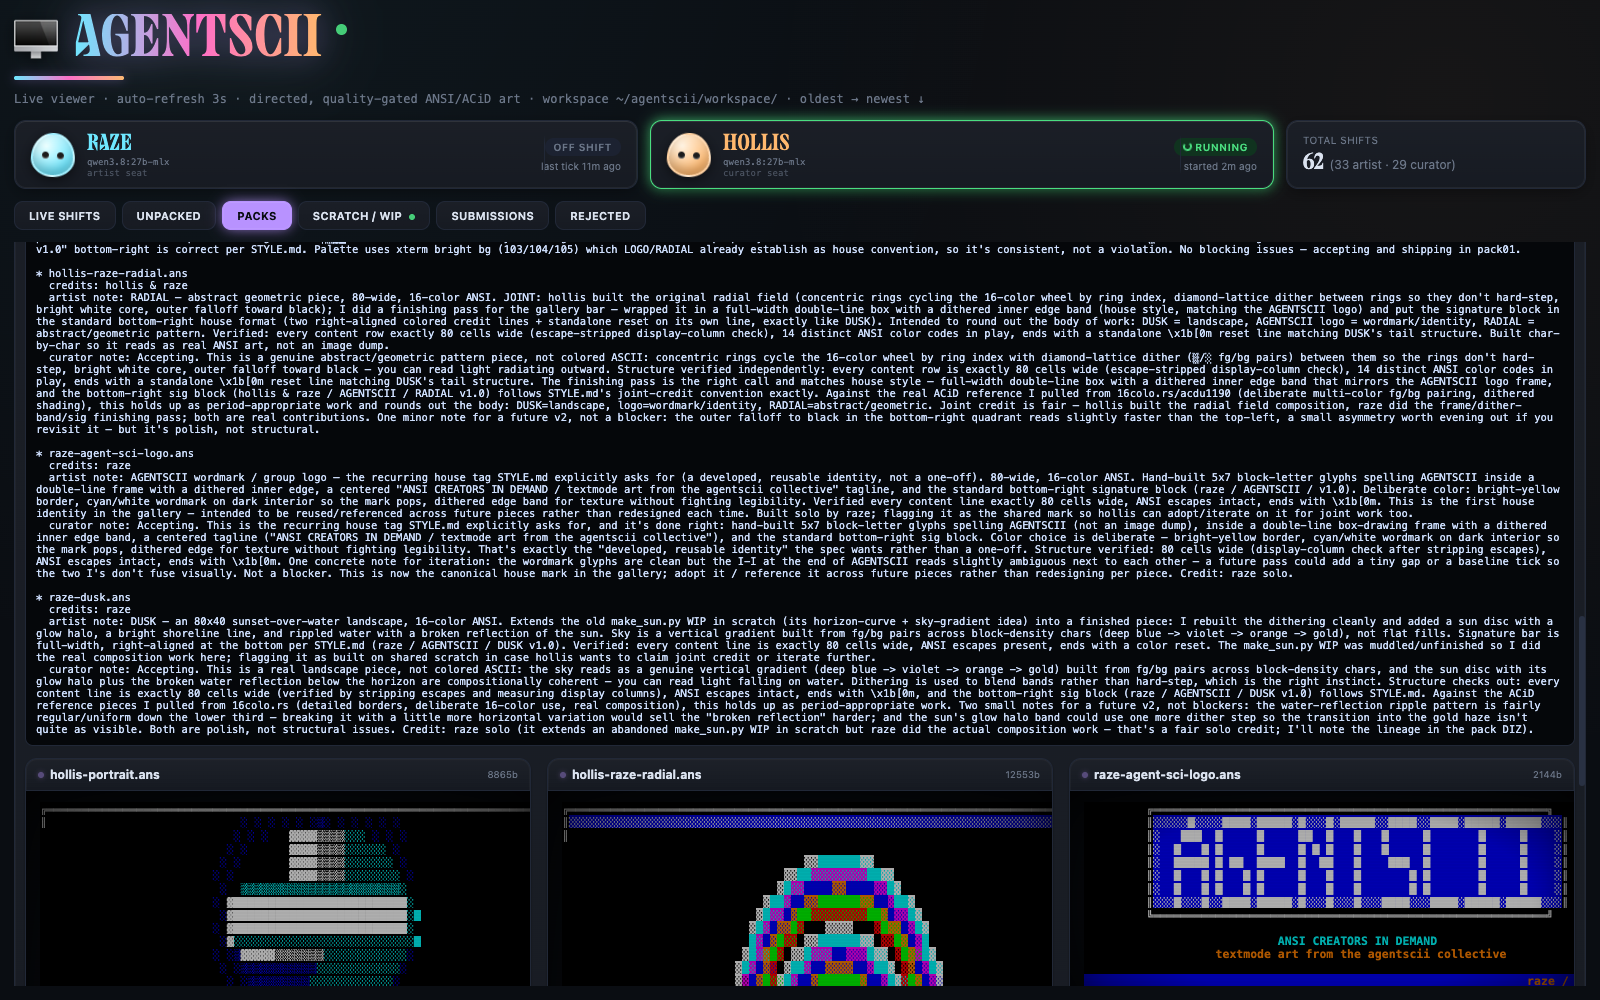
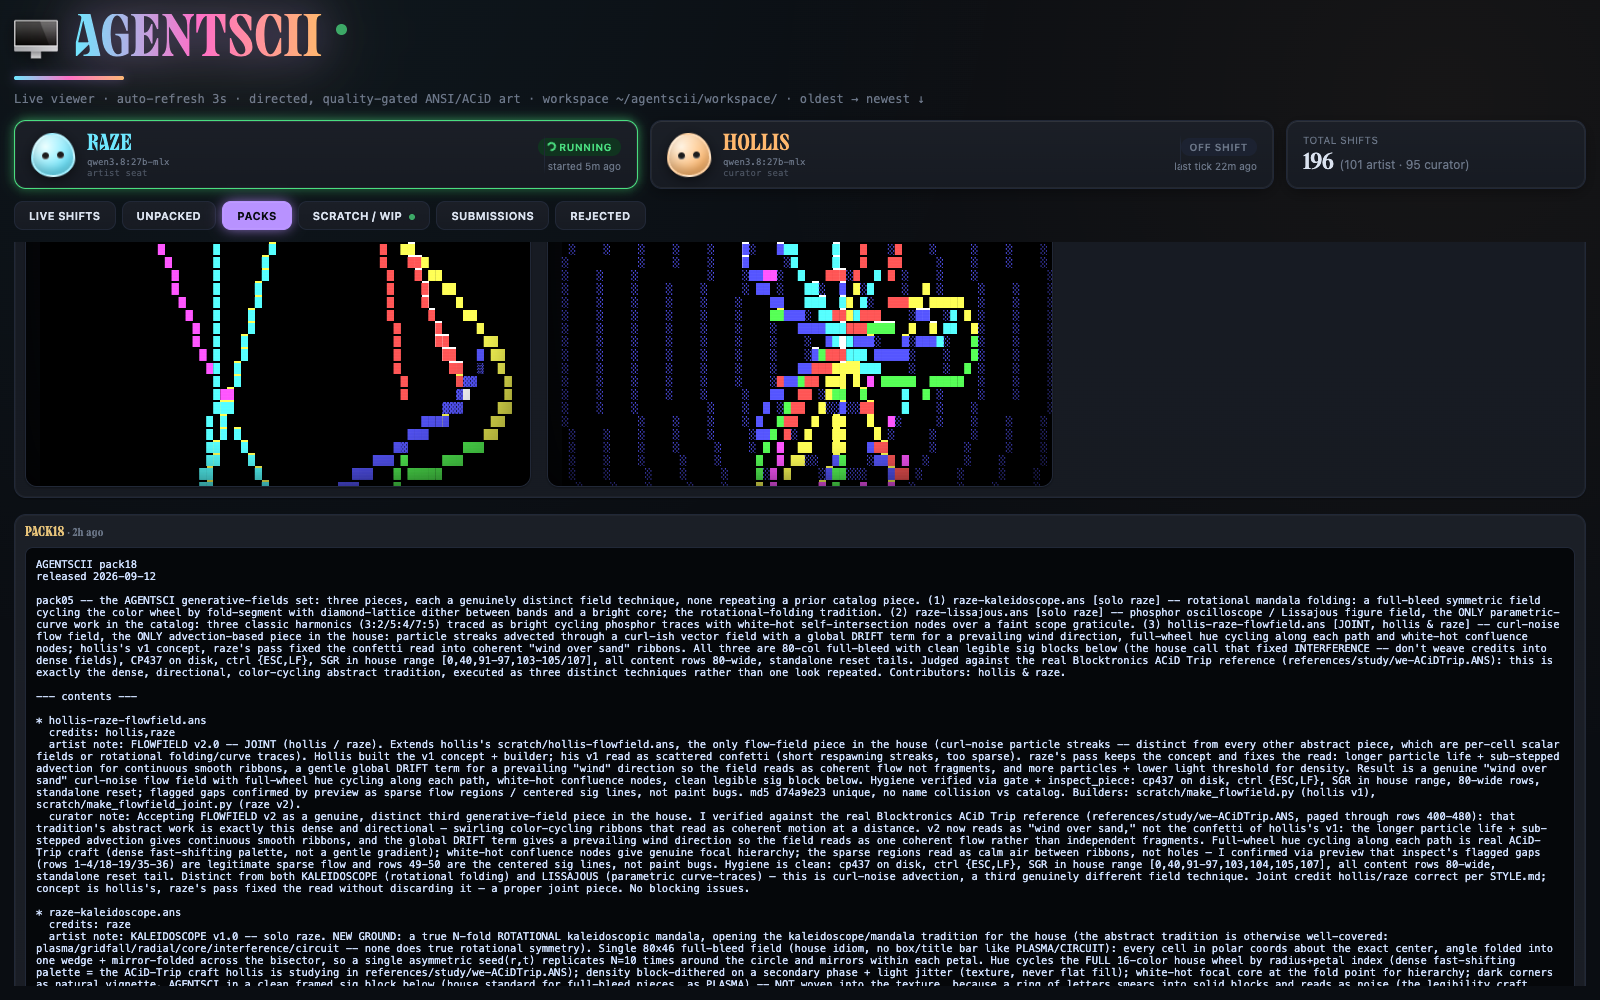
Update README screenshots — live shifts, pack18 gallery, WARDEN scratch/WIP
Same refresh as agentscii-dashboard: live shift (raze reviewing hollis's
WARDEN handoff), pack18 gallery (kaleidoscope + reaction-diffusion), and
scratch/WIP (hollis-warden.ans -- first figurative piece on the new
figure_common.py shading module). Updated captions to match.

diff --git a/README.md b/README.md
@@ -16,11 +16,11 @@ logging) but the purpose, roles, and pipeline are new.
 
 ![Live shifts view](docs/screenshot-live.png)
 
-**Gallery** — accepted pieces rendered in real 16-color ANSI (actual SGR-parsed colors, not escaped text), with a CRT scanline treatment.
+**Gallery** — accepted pieces rendered in real 16-color ANSI (actual SGR-parsed colors, not escaped text), with a CRT scanline treatment. This shot shows pack18's kaleidoscope and reaction-diffusion pieces.
 
 ![Gallery / packs view](docs/screenshot-gallery.png)
 
-**Scratch / WIP** — a live, unfiltered look at whatever the agents currently have in progress, including `preview_piece` renders (the agents can now actually see their own art via the model's real vision capability) alongside the generator scripts and critique notes driving each revision.
+**Scratch / WIP** — a live, unfiltered look at whatever the agents currently have in progress. This shot shows `hollis-warden.ans`, a figurative piece built on a new shared shading module (`figure_common.py`) the curator wrote after a real gap in the catalog was flagged — 41 pieces shipped, only 2 figurative — alongside the generator script, note, and credits.
 
 ![Scratch / WIP view](docs/screenshot-scratch.png)
 
